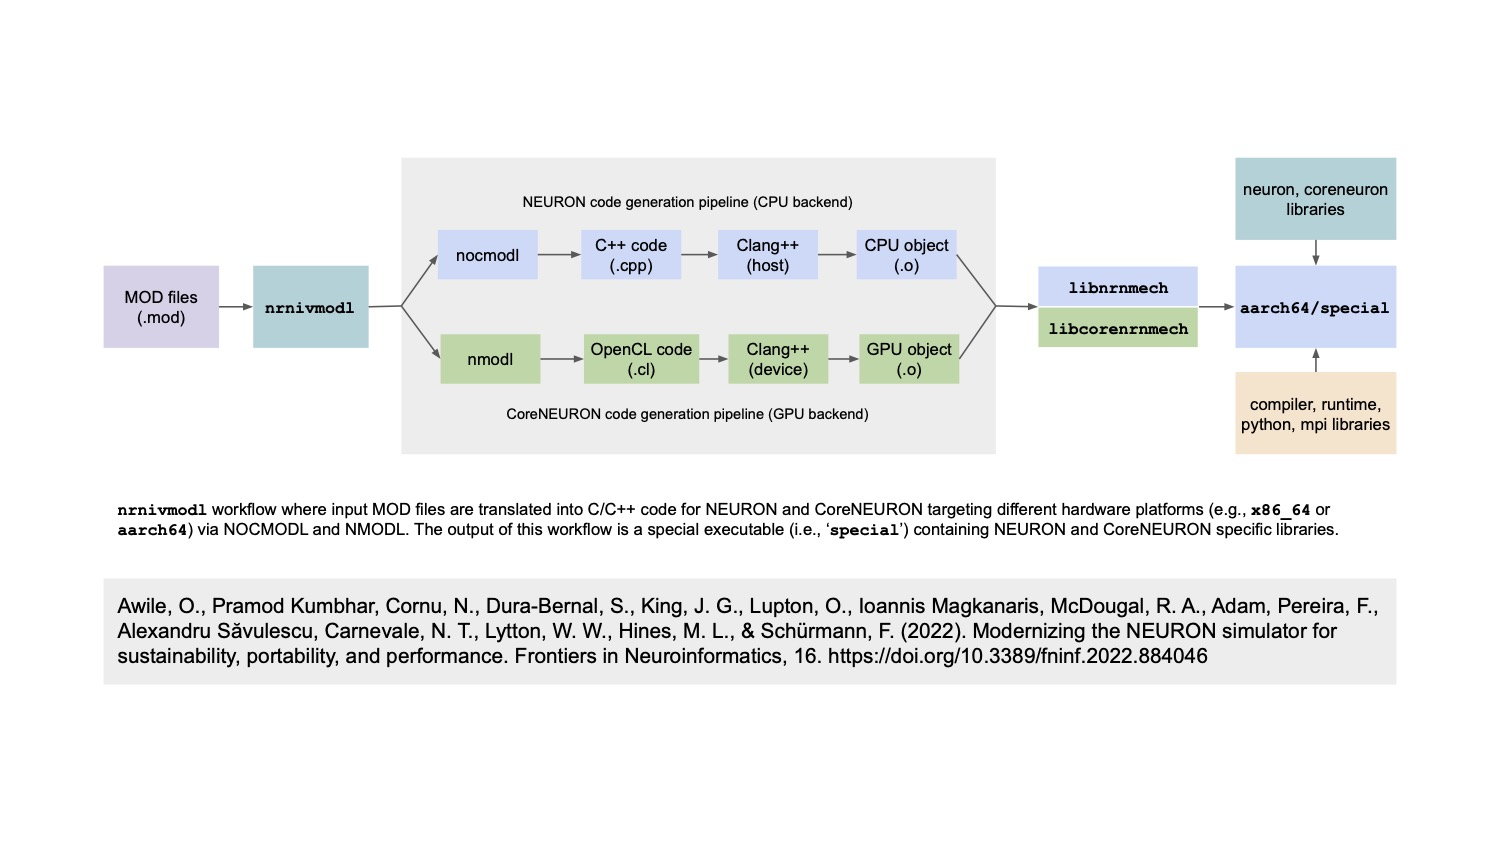
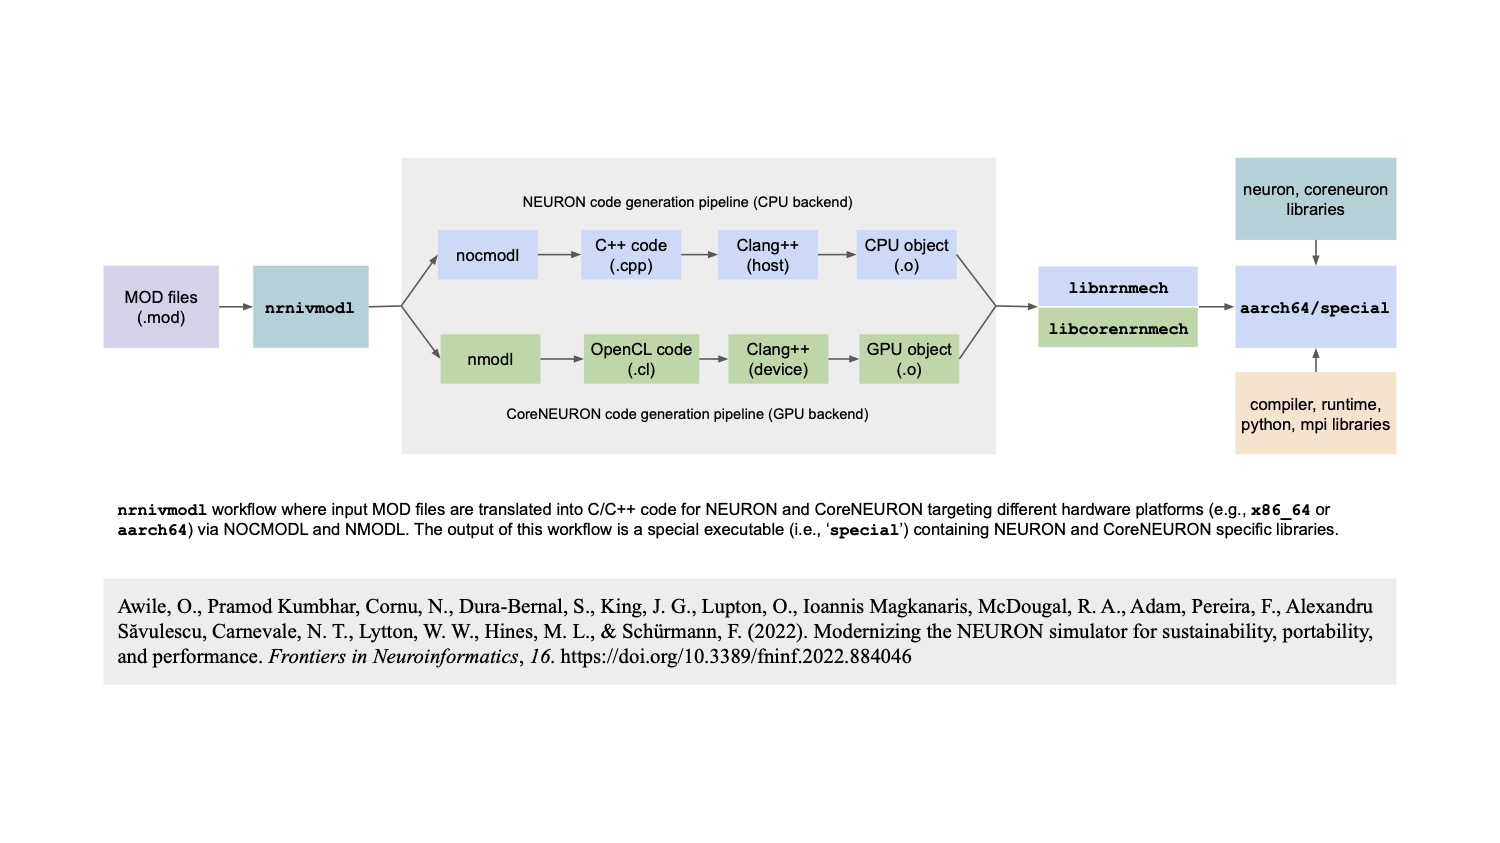
b

Changed region(s): [[0.0613, 0.7094, 0.92, 0.8019]]

diff --git a/_projects/ongoing.md b/_projects/ongoing.md
@@ -97,7 +97,7 @@ category: ongoing
 
 ---
 
-**Project Proposal:**
+🙋🏻♂ **Project Proposal:**
 
 <div class="row">
     <div class="col-sm mt-3 mt-md-0">
@@ -161,7 +161,7 @@ category: ongoing
 </div>
 <div class="row">
     <div class="col-sm mt-3 mt-md-0">
-        {% include figure.liquid loading="eager" path="assets/img/ow/c.jpg" title="slide c" class="img-fluid rounded z-depth-1" %}
+        {% include figure.liquid loading="eager" path="assets/img/ow/z.jpg" title="slide z" class="img-fluid rounded z-depth-1" %}
     </div>
 </div>
 
